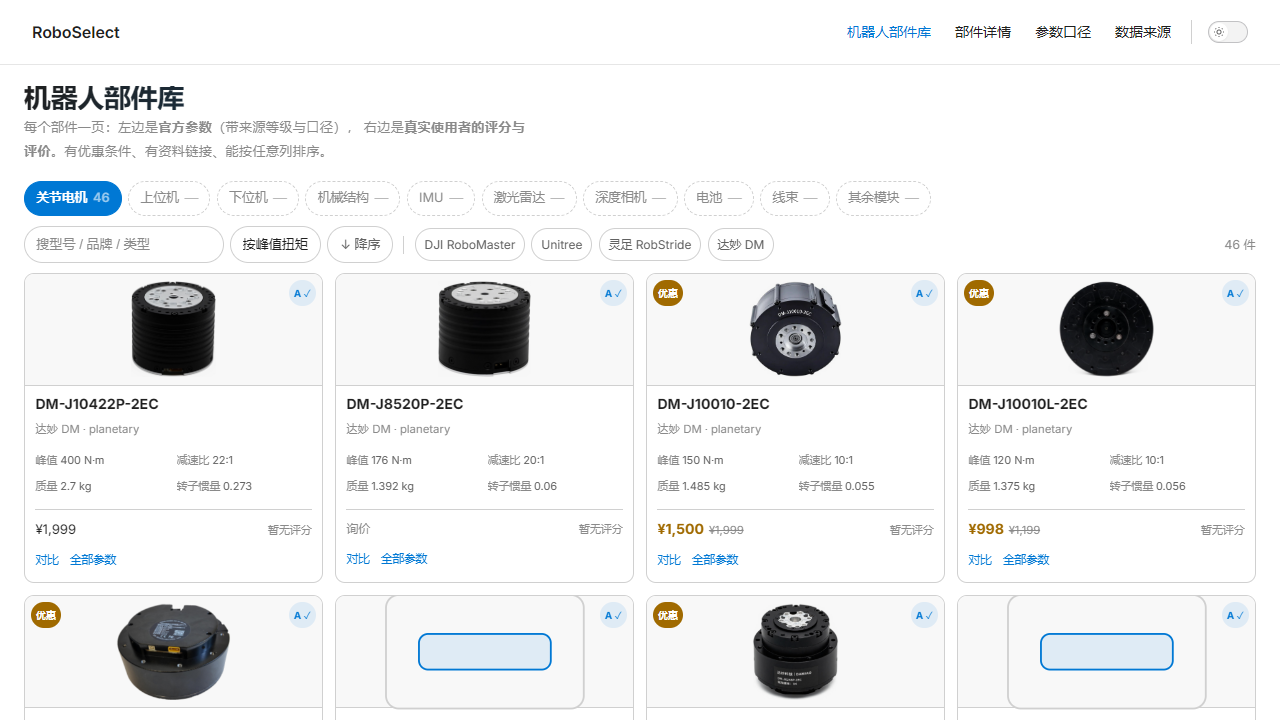
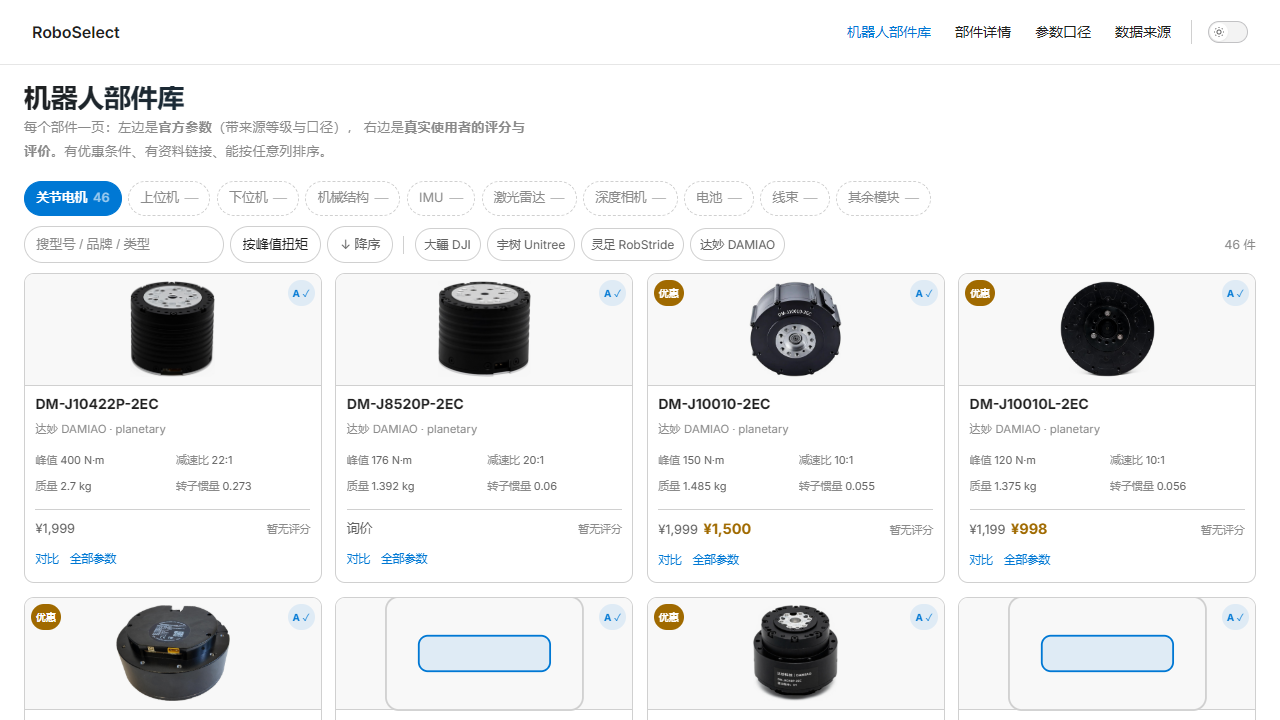
fix(catalog): 卡片占位图溢出
原因：占位 SVG 用的是 width:74% + height:auto。托板高度固定 112px，
按宽度算出来的高度是 136px，SVG 顶出托板盖到型号名上。

修法：
- 按**高度**约束（height:78px; width:auto; max-width:88%）——
  viewBox 会自动按比例算宽度，永远不会比托板高
- .card-img 加 overflow:hidden 兜底
- 顺带把占位从「抽象方块」换成 图标 + 「暂无产品图」：
  缺图就如实说缺图（错图比没图更糟，这件事已经在数据里做过一轮）
- 删掉不再使用的 glyphBox()

diff --git a/wiki/docs/.vitepress/components/PartExplorer.vue b/wiki/docs/.vitepress/components/PartExplorer.vue
@@ -199,11 +199,6 @@ const COMPARE_FIELDS: { t: string; f: (p: Part) => string }[] = [
   { t: '价格', f: p => money(p.offer?.price ?? p.price) ?? '询价' },
   { t: '评分', f: p => (p.rating.avg == null ? '暂无' : `${p.rating.avg} (${p.rating.count})`) },
 ]
-
-function glyphBox(p: Part) {
-  const w = p.od && p.len ? Math.min(2.6, Math.max(0.5, p.len / p.od)) : 1
-  return { h: Math.max(16, Math.min(44, 24 * w)), w: Math.max(26, Math.min(72, 58 / Math.max(0.8, w * 0.9))) }
-}
 </script>
 
 <template>
@@ -258,13 +253,16 @@ function glyphBox(p: Part) {
         <article v-for="p in rows" :key="p.id" class="card">
           <a class="card-img" :href="withBase('/parts/' + p.category + '/' + p.slug)">
             <img v-if="p.image" :src="withBase(p.image)" :alt="p.model" loading="lazy" />
-            <svg v-else viewBox="0 0 120 74" aria-hidden="true">
-              <rect x="6" y="6" width="108" height="62" rx="7"
-                    fill="var(--vp-c-bg-soft)" stroke="var(--vp-c-divider)" />
-              <rect :x="60 - glyphBox(p).w / 2" :y="37 - glyphBox(p).h / 2"
-                    :width="glyphBox(p).w" :height="glyphBox(p).h" rx="5"
-                    fill="var(--vp-c-brand-soft)" stroke="var(--vp-c-brand-1)" />
-            </svg>
+            <!-- 没图就如实说没图。错图（整机宣传图）比没图更糟，所以不做抽象方块充数 -->
+            <span v-else class="ph" aria-label="暂无产品图">
+              <svg viewBox="0 0 24 24" width="18" height="18" aria-hidden="true">
+                <path fill="none" stroke="currentColor" stroke-width="1.6"
+                      d="M3 7h4l2-3h6l2 3h4v12H3z" />
+                <circle cx="12" cy="13" r="3.4" fill="none" stroke="currentColor"
+                        stroke-width="1.6" />
+              </svg>
+              <em>暂无产品图</em>
+            </span>
             <span :class="['card-tier', p.tier === 'A' ? 'a' : '']">{{ p.tier }}{{ p.verified ? ' ✓' : '' }}</span>
             <span v-if="p.offer?.price != null" class="card-promo">优惠</span>
           </a>
@@ -385,12 +383,24 @@ function glyphBox(p: Part) {
   position: relative; display: flex; align-items: center; justify-content: center;
   height: 112px; background: var(--vp-c-bg-alt);
   border-bottom: 1px solid var(--vp-c-divider);
+  /* 托板高度固定，图片/SVG 都不能撑出边界 —— 否则会压到下面的型号名上 */
+  overflow: hidden;
 }
 .card-img img {
   max-height: 96px; max-width: 86%; object-fit: contain; mix-blend-mode: multiply;
 }
 html.dark .card-img img { mix-blend-mode: normal; background: #fff; border-radius: 4px; padding: 2px; }
-.card-img svg { width: 74%; height: auto; }
+/* 占位图按**高度**约束（不是宽度）：SVG 有 viewBox，给定高度后宽度按比例走，
+   在 112px 高的托板里永远不会顶出来。按宽度给百分比会算出 136px 高再溢出。 */
+.card-img svg { height: 78px; width: auto; max-width: 88%; display: block; }
+
+/* 缺图的占位：图标 + 一句说明，克制到不抢注意力，但比抽象方块能读懂 */
+.ph {
+  display: flex; flex-direction: column; align-items: center; gap: 3px;
+  color: var(--vp-c-text-3);
+}
+.ph svg { height: 18px; width: auto; max-width: none; opacity: 0.7; }
+.ph em { font-size: 0.66rem; font-style: normal; letter-spacing: 0.02em; }
 .card-tier {
   position: absolute; top: 6px; right: 6px; font-size: 0.62rem; font-weight: 700;
   padding: 1px 5px; border-radius: 999px;
